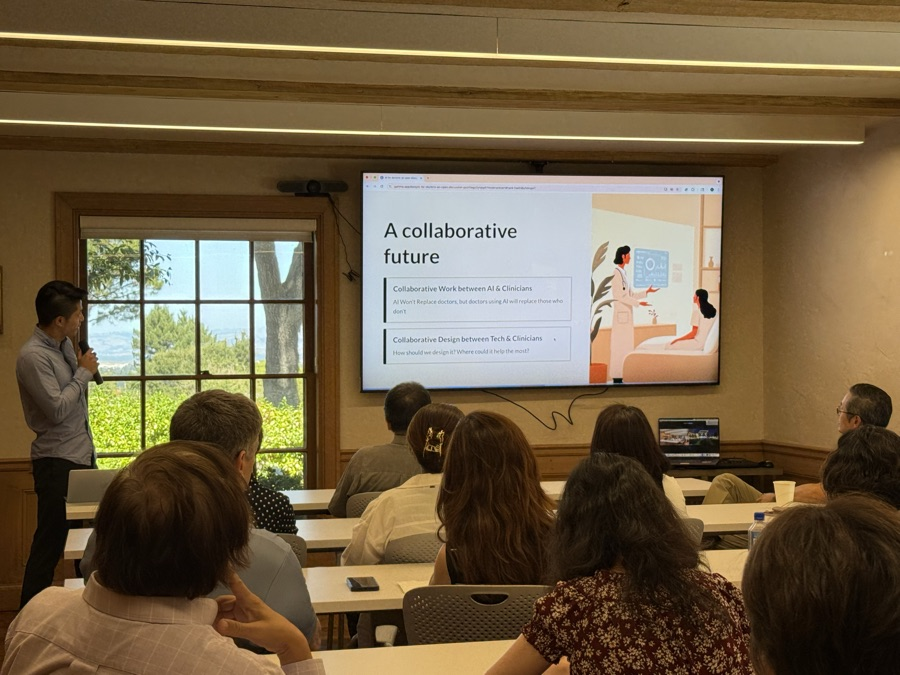
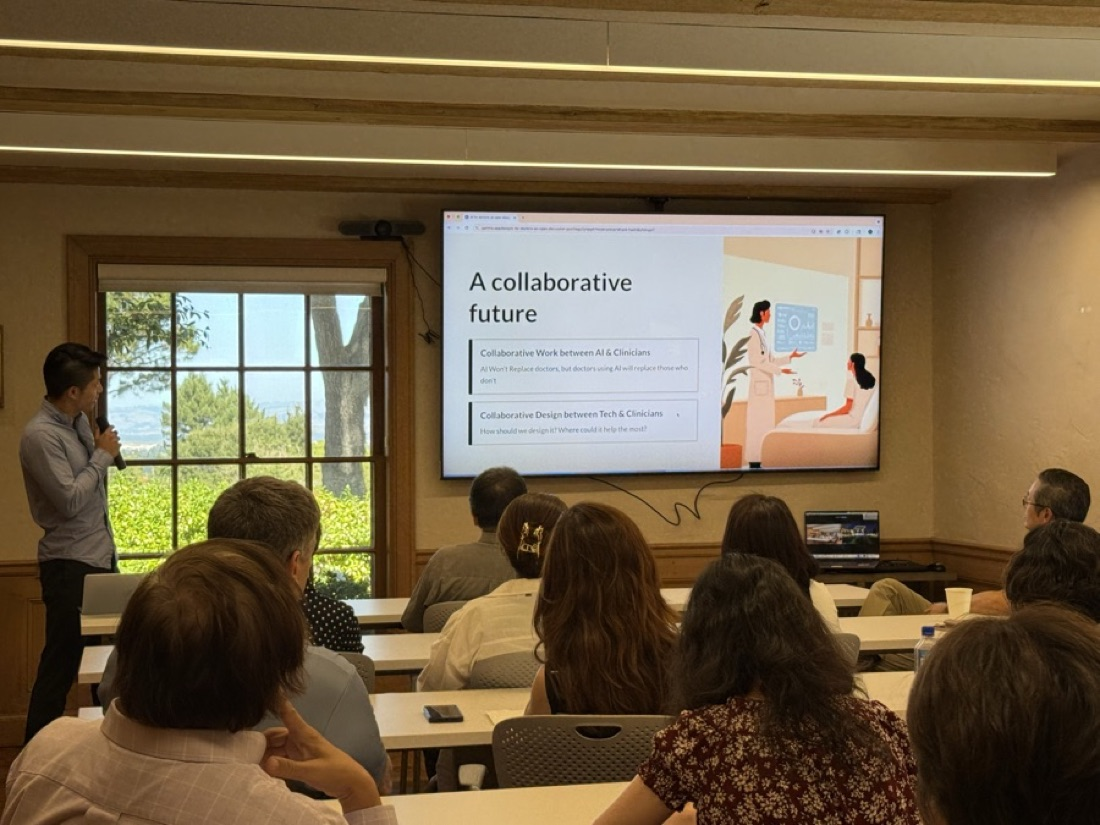
refactor(theta): Field notes 回归 2×2 + 圆桌照片改左右滑动轮播
- Intake 触发流卡换为 Who actually wanted it（早期外呼的需求分层
  洞察：younger ✗ low pull vs older·chronic ✓ instant resonance
  → refocus on high-need users，messaging 从 aggregation 转向
  intelligent preprocessing）
- clinical B2B motion 压缩为 1/4 窄卡（筛选框 + 三渠道 + pilot 点）
- 圆桌照片区改为 RoundtableCarousel：四张横向滑动（含 IMG_2445
  产品演示场），4.2s 自动前进、hover 暂停、双箭头、圆点、手写标注

Changed region(s): [[0.4356, 0.3733, 0.4667, 0.4044]]

diff --git a/src/pages/ThetaCase.tsx b/src/pages/ThetaCase.tsx
@@ -358,82 +358,65 @@ function McpMotionGraphic() {
   )
 }
 
-/** 临床 B2B 动线（宽幅）：湾区诊所 → 实地筛选 → B2B 渠道 → 首个 pilot */
+/** 临床 B2B 动线（窄版）：实地筛选 → B2B 渠道 → 首个 pilot */
 function PilotB2BGraphic() {
-  const dots = [
-    [22, 62], [42, 50], [62, 66], [30, 86], [52, 92], [74, 56], [86, 80], [26, 112], [48, 118], [70, 108], [90, 100], [40, 136],
-  ] as const
   const filters = ['independent practice', 'has EHR & website', 'holistic · TCM care', 'strong patient reviews']
   const channels = [
-    { y: 52, label: 'cold outreach · call scripts' },
-    { y: 92, label: 'clinical roundtables · 40+ MDs' },
-    { y: 132, label: 'medical associations' },
+    { y: 46, label: 'cold outreach · scripts' },
+    { y: 84, label: 'roundtables · 40+ MDs' },
+    { y: 122, label: 'medical associations' },
   ]
   return (
-    <svg viewBox="0 0 640 216" className="w-full max-w-[660px]" fill="none" aria-label="Clinical B2B motion: Bay Area clinics run through field-tested ICP filters, worked through cold outreach, roundtables and medical associations, landing the first clinic pilot">
-      <text x="58" y="36" textAnchor="middle" fontSize="10.5" fill="#8A6E84">Bay Area clinics</text>
-      {dots.map(([x, y], i) => (
-        <circle key={i} cx={x} cy={y} r="4.5" fill="#3A2440" fillOpacity="0.16" />
-      ))}
-      <text x="58" y="160" textAnchor="middle" fontSize="10" fill="#8A6E84">shortlisted &amp; visited</text>
-      {/* 实地验证的筛选 */}
-      <rect x="118" y="44" width="150" height="116" rx="12" fill="white" stroke="#C79A4B" strokeOpacity="0.5" strokeWidth="1.2" strokeDasharray="3 5" />
-      <text x="193" y="64" textAnchor="middle" fontSize="10.5" fill="#8A6E84">the filters, field-tested</text>
+    <svg viewBox="0 0 320 216" className="w-full max-w-[300px]" fill="none" aria-label="Clinical B2B motion: field-tested filters, worked through cold outreach, roundtables and medical associations, landing the first clinic pilot">
+      <text x="78" y="22" textAnchor="middle" fontSize="9.5" fill="#8A6E84">Bay Area clinics ↓</text>
+      <rect x="14" y="30" width="128" height="106" rx="12" fill="white" stroke="#C79A4B" strokeOpacity="0.5" strokeWidth="1.2" strokeDasharray="3 5" />
+      <text x="78" y="48" textAnchor="middle" fontSize="9.5" fill="#8A6E84">the filters, field-tested</text>
       {filters.map((f, i) => (
-        <text key={f} x="193" y={84 + i * 19} textAnchor="middle" fontSize="10" fill="#3A2440">
+        <text key={f} x="78" y={66 + i * 17} textAnchor="middle" fontSize="9" fill="#3A2440">
           {f}
         </text>
       ))}
-      <path d="M100 96 H 116" stroke="#C79A4B" strokeOpacity="0.6" strokeWidth="1.3" strokeDasharray="2 4" strokeLinecap="round" className="theta-march" />
-      <path d="M270 96 H 292" stroke="#C79A4B" strokeOpacity="0.6" strokeWidth="1.3" strokeDasharray="2 4" strokeLinecap="round" className="theta-march" />
-      {/* B2B 渠道 */}
+      <path d="M144 84 H 156" stroke="#C79A4B" strokeOpacity="0.6" strokeWidth="1.3" strokeDasharray="2 4" strokeLinecap="round" className="theta-march" />
       {channels.map((c) => (
         <g key={c.label}>
-          <rect x="296" y={c.y - 13} width="182" height="26" rx="13" fill="white" stroke="#C79A4B" strokeOpacity="0.5" strokeWidth="1.2" />
-          <circle cx="311" cy={c.y} r="3" fill="#C79A4B" />
-          <text x="322" y={c.y + 3.5} fontSize="10" fill="#3A2440">{c.label}</text>
-          <path d={`M480 ${c.y} Q 520 ${c.y} 540 ${92 + (c.y - 92) * 0.18}`} stroke="#C79A4B" strokeOpacity="0.5" strokeWidth="1.3" strokeDasharray="2 5" strokeLinecap="round" className="theta-march" />
+          <rect x="160" y={c.y - 12} width="146" height="24" rx="12" fill="white" stroke="#C79A4B" strokeOpacity="0.5" strokeWidth="1.2" />
+          <circle cx="173" cy={c.y} r="2.6" fill="#C79A4B" />
+          <text x="182" y={c.y + 3.5} fontSize="9" fill="#3A2440">{c.label}</text>
+          <path d={`M${233} ${c.y + 12} Q 233 ${150 + (c.y - 84) * 0.1} 233 154`} stroke="#C79A4B" strokeOpacity="0.35" strokeWidth="1.2" strokeDasharray="2 4" strokeLinecap="round" />
         </g>
       ))}
-      {/* 结果 */}
-      <circle cx="576" cy="92" r="28" fill="#D193A8" fillOpacity="0.14" stroke="#D193A8" strokeWidth="1.4" strokeDasharray="2 4" />
-      <text x="576" y="89" textAnchor="middle" fontSize="11" fill="#3A2440" fontWeight="600">1st clinic</text>
-      <text x="576" y="103" textAnchor="middle" fontSize="10.5" fill="#3A2440">pilot ✦</text>
-      <text x="435" y="196" textAnchor="middle" fontSize="12.5" fill="#C79A4B" className="font-hand" fontWeight="600">
-        3–4 interested → 1 signed · bilingual deck &amp; tailored scripts ✦
+      <circle cx="233" cy="172" r="16" fill="#D193A8" fillOpacity="0.16" stroke="#D193A8" strokeWidth="1.4" strokeDasharray="2 4" />
+      <circle cx="233" cy="172" r="4" fill="#D193A8" />
+      <text x="278" y="176" textAnchor="start" fontSize="10.5" fontWeight="600" fill="#3A2440"></text>
+      <text x="160" y="206" textAnchor="middle" fontSize="12" fill="#C79A4B" className="font-hand" fontWeight="600">
+        3–4 interested → 1st pilot signed ✦
       </text>
     </svg>
   )
 }
 
-/** Intake 触发流（宽幅）：预约 → 触发邮件 → 智能问卷 → pre-chart → +60% */
-function IntakeFlowGraphic() {
-  const steps = [
-    { x: 14, w: 108, l1: 'appointment', l2: 'booked', c: '#D193A8' },
-    { x: 148, w: 128, l1: 'consent & data-auth', l2: 'email · triggered', c: '#B98ACB' },
-    { x: 302, w: 122, l1: 'smart intake', l2: 'forms · chat · call', c: '#8FAE8B' },
-    { x: 450, w: 108, l1: 'pre-chart', l2: 'ready', c: '#C79A4B' },
-  ]
+/** 用户分层洞察：谁真的需要它（源自实习反思的早期外呼发现） */
+function WhoWantedItGraphic() {
   return (
-    <svg viewBox="0 0 640 216" className="w-full max-w-[660px]" fill="none" aria-label="Trigger-based intake workflow: appointment booked triggers consent and data-authorization email, smart intake via forms chat or call, feeding a ready pre-chart — plus 60 percent engagement lift">
-      {steps.map((s) => (
-        <g key={s.l1}>
-          <rect x={s.x} y="64" width={s.w} height="52" rx="14" fill={`${s.c}14`} stroke={s.c} strokeOpacity="0.6" strokeWidth="1.3" />
-          <text x={s.x + s.w / 2} y="86" textAnchor="middle" fontSize="10.5" fontWeight="600" fill="#3A2440">{s.l1}</text>
-          <text x={s.x + s.w / 2} y="102" textAnchor="middle" fontSize="9.5" fill="#6B4E63">{s.l2}</text>
-        </g>
-      ))}
-      <path d="M124 90 H 144" stroke="#B98ACB" strokeOpacity="0.6" strokeWidth="1.3" strokeDasharray="2 4" strokeLinecap="round" className="theta-march" />
-      <path d="M278 90 H 298" stroke="#8FAE8B" strokeOpacity="0.6" strokeWidth="1.3" strokeDasharray="2 4" strokeLinecap="round" className="theta-march" />
-      <path d="M426 90 H 446" stroke="#C79A4B" strokeOpacity="0.6" strokeWidth="1.3" strokeDasharray="2 4" strokeLinecap="round" className="theta-march" />
-      <path d="M560 90 Q 580 90 588 90" stroke="#D193A8" strokeOpacity="0.6" strokeWidth="1.3" strokeDasharray="2 4" strokeLinecap="round" className="theta-march" />
-      <circle cx="606" cy="90" r="27" fill="#D193A8" fillOpacity="0.14" stroke="#D193A8" strokeWidth="1.4" strokeDasharray="2 4" />
-      <text x="606" y="94" textAnchor="middle" fontSize="12" fill="#3A2440" fontWeight="600">+60%</text>
-      <text x="606" y="132" textAnchor="middle" fontSize="9.5" fill="#6B4E63">open &amp; click rates</text>
-      <text x="320" y="44" textAnchor="middle" fontSize="11" fill="#8A6E84">HIPAA-compliant end to end · no chasing, no clipboards</text>
-      <text x="320" y="164" textAnchor="middle" fontSize="12.5" fill="#8FAE8B" className="font-hand" fontWeight="600">
-        the visit starts before the visit ✦
+    <svg viewBox="0 0 320 216" className="w-full max-w-[300px]" fill="none" aria-label="Who actually wanted it: younger users showed low pull; older adults managing chronic conditions felt immediate value — targeting and messaging refocused on high-need users">
+      {/* 左：年轻用户 */}
+      <rect x="14" y="30" width="140" height="98" rx="12" fill="white" stroke="#8A6E84" strokeOpacity="0.35" strokeWidth="1.2" strokeDasharray="3 5" />
+      <text x="84" y="50" textAnchor="middle" fontSize="10.5" fill="#8A6E84" fontWeight="600">younger users</text>
+      <text x="84" y="70" textAnchor="middle" fontSize="9.5" fill="#8A6E84">fewer health concerns</text>
+      <text x="84" y="87" textAnchor="middle" fontSize="9.5" fill="#8A6E84">data mostly in one place</text>
+      <text x="84" y="112" textAnchor="middle" fontSize="11" fill="#8A6E84">✗ low pull</text>
+      {/* 右：慢病长者 */}
+      <rect x="166" y="30" width="140" height="98" rx="12" fill="#8FAE8B" fillOpacity="0.08" stroke="#8FAE8B" strokeOpacity="0.6" strokeWidth="1.3" />
+      <text x="236" y="50" textAnchor="middle" fontSize="10.5" fill="#6B8E63" fontWeight="600">older adults · chronic care</text>
+      <text x="236" y="70" textAnchor="middle" fontSize="9.5" fill="#3A2440">records scattered everywhere</text>
+      <text x="236" y="87" textAnchor="middle" fontSize="9.5" fill="#3A2440">many portals, many devices</text>
+      <text x="236" y="112" textAnchor="middle" fontSize="11" fill="#6B8E63" fontWeight="600">✓ instant resonance</text>
+      {/* 汇聚 */}
+      <path d="M84 136 C 100 158, 220 158, 236 136" stroke="#B98ACB" strokeOpacity="0.5" strokeWidth="1.3" strokeDasharray="2 5" strokeLinecap="round" className="theta-march" />
+      <text x="160" y="180" textAnchor="middle" fontSize="13" fill="#B98ACB" className="font-hand" fontWeight="600">
+        refocus on high-need users ✦
       </text>
+      <text x="160" y="200" textAnchor="middle" fontSize="9.5" fill="#8A6E84">messaging: data aggregation → intelligent preprocessing</text>
     </svg>
   )
 }
@@ -477,6 +460,81 @@ function QuadrantGraphic() {
 }
 
 
+
+/** 圆桌照片轮播：横向滑动 + 自动前进 + 箭头/圆点 */
+function RoundtableCarousel() {
+  const photos = [
+    { src: '/theta/rt-2414.jpg', cap: 'pitching a collaborative future' },
+    { src: '/theta/rt-2433.jpg', cap: 'walking MDs through patient context' },
+    { src: '/theta/rt-2445.jpg', cap: 'demoing how patients collect their data' },
+    { src: '/theta/rt-2452.jpg', cap: 'asking the room what to build next' },
+  ]
+  const [idx, setIdx] = useState(0)
+  const [paused, setPaused] = useState(false)
+  useEffect(() => {
+    if (paused) return
+    const t = window.setInterval(() => setIdx((i) => (i + 1) % photos.length), 4200)
+    return () => window.clearInterval(t)
+  }, [paused, photos.length])
+  const go = (d: number) => setIdx((i) => (i + d + photos.length) % photos.length)
+  return (
+    <div
+      className="relative mx-auto mt-6 max-w-3xl"
+      onPointerEnter={() => setPaused(true)}
+      onPointerLeave={() => setPaused(false)}
+    >
+      <div className="overflow-hidden rounded-2xl border border-plum/10 bg-white p-2.5 shadow-[0_28px_60px_-28px_rgba(90,63,86,0.5)]">
+        <div
+          className="flex transition-transform duration-700"
+          style={{ transform: `translateX(-${idx * 100}%)`, transitionTimingFunction: 'cubic-bezier(0.22, 1, 0.36, 1)' }}
+        >
+          {photos.map((ph) => (
+            <img
+              key={ph.src}
+              src={ph.src}
+              alt={`Clinical roundtable — ${ph.cap}`}
+              loading="lazy"
+              draggable={false}
+              className="aspect-[4/3] w-full shrink-0 rounded-xl object-cover"
+            />
+          ))}
+        </div>
+      </div>
+      {/* 箭头 */}
+      <button
+        type="button"
+        aria-label="Previous photo"
+        onClick={() => go(-1)}
+        className="absolute -left-4 top-1/2 flex h-10 w-10 -translate-y-1/2 items-center justify-center rounded-full border border-plum/15 bg-white text-plum shadow-[0_10px_24px_-8px_rgba(58,36,64,0.4)] transition-transform duration-300 hover:scale-110 md:-left-5"
+      >
+        ‹
+      </button>
+      <button
+        type="button"
+        aria-label="Next photo"
+        onClick={() => go(1)}
+        className="absolute -right-4 top-1/2 flex h-10 w-10 -translate-y-1/2 items-center justify-center rounded-full border border-plum/15 bg-white text-plum shadow-[0_10px_24px_-8px_rgba(58,36,64,0.4)] transition-transform duration-300 hover:scale-110 md:-right-5"
+      >
+        ›
+      </button>
+      {/* 手写标注 + 圆点 */}
+      <div className="mt-4 flex items-center justify-between gap-3 px-1">
+        <p className="min-h-[22px] font-hand text-[16px] text-plum-muted">{photos[idx].cap}</p>
+        <div className="flex shrink-0 gap-1.5">
+          {photos.map((ph, i) => (
+            <button
+              key={ph.src}
+              type="button"
+              aria-label={`Show photo ${i + 1}`}
+              onClick={() => setIdx(i)}
+              className={`h-2 rounded-full transition-all duration-300 ${i === idx ? 'w-5 bg-orchid' : 'w-2 bg-plum/20 hover:bg-plum/40'}`}
+            />
+          ))}
+        </div>
+      </div>
+    </div>
+  )
+}
 
 /** MCP demo：关键帧轮播动画（自动交叉淡入，可点圆点切换） */
 function DemoFrameLoop() {
@@ -824,7 +882,7 @@ export default function ThetaCase() {
         </Reveal>
         <Reveal delay={0.06}>
           <h2 className="max-w-3xl font-serif text-[clamp(1.7rem,3.6vw,2.6rem)] font-light leading-[1.15] text-plum">
-            Five insights from the work
+            Four insights from the work
           </h2>
         </Reveal>
         <Reveal delay={0.12}>
@@ -845,38 +903,27 @@ export default function ThetaCase() {
               <McpMotionGraphic />
             </InsightCard>
           </Reveal>
-          <Reveal delay={0.12} className="md:col-span-2">
-            <InsightCard title="How we landed the first pilot — the clinical B2B motion" source="from pilot outreach & the growth playbook">
+          <Reveal delay={0.12}>
+            <InsightCard title="The clinical B2B motion" source="from pilot outreach & the growth playbook">
               <PilotB2BGraphic />
             </InsightCard>
           </Reveal>
-          <Reveal delay={0.16} className="md:col-span-2">
-            <InsightCard title="The intake engine, on triggers" source="from my Email Workflow PRD">
-              <IntakeFlowGraphic />
+          <Reveal delay={0.18}>
+            <InsightCard title="Who actually wanted it" source="from early outreach — the demand signal">
+              <WhoWantedItGraphic />
             </InsightCard>
           </Reveal>
         </div>
 
-        {/* 圆桌现场照片条 */}
+        {/* 圆桌现场：左右滑动轮播 */}
         <Reveal delay={0.1}>
           <p className="mt-12 text-center font-hand text-[18px] text-plum-muted">
             field notes, literally — <span className="text-orchid">scenes from the clinical roundtables ✦</span>
           </p>
         </Reveal>
-        <div className="mt-6 grid gap-6 sm:grid-cols-3">
-          {[
-            { src: '/theta/rt-2414.jpg', cap: 'pitching a collaborative future', rot: '-rotate-2' },
-            { src: '/theta/rt-2433.jpg', cap: 'walking MDs through patient context', rot: 'rotate-1' },
-            { src: '/theta/rt-2452.jpg', cap: 'collecting what to build next', rot: '-rotate-1' },
-          ].map((ph, i) => (
-            <Reveal key={ph.src} delay={i * 0.08}>
-              <figure className={`${ph.rot} rounded-[10px] border border-plum/10 bg-white p-2 pb-4 shadow-[0_22px_48px_-24px_rgba(90,63,86,0.45)] transition-transform duration-500 hover:rotate-0 hover:-translate-y-1`}>
-                <img src={ph.src} alt={`Clinical roundtable — ${ph.cap}`} loading="lazy" className="w-full rounded-[6px]" />
-                <figcaption className="mt-2.5 text-center font-hand text-[14px] text-plum-muted">{ph.cap}</figcaption>
-              </figure>
-            </Reveal>
-          ))}
-        </div>
+        <Reveal delay={0.16}>
+          <RoundtableCarousel />
+        </Reveal>
 
         {/* MCP demo 关键帧动画 + 报道引语卡 */}
         <div className="mt-12 grid gap-8 lg:grid-cols-[3fr_2fr]">
